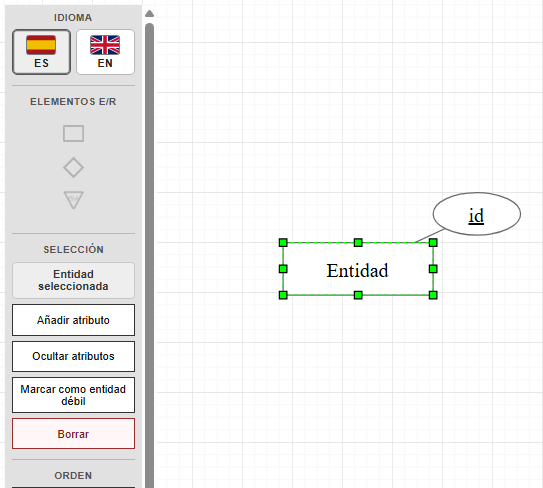
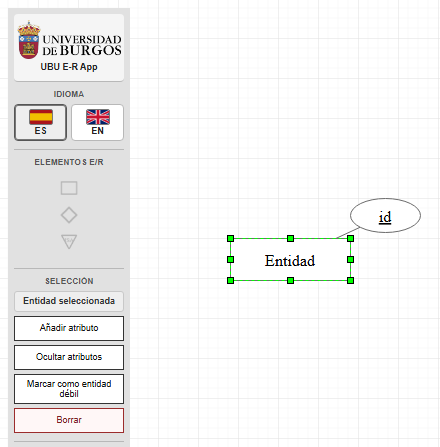
docs: update chapters with final usability refinements

Changed region(s): [[0.0, 0.0, 0.2955, 1.0], [0.5023, 0.4072, 0.975, 0.6398], [0.8273, 0.3781, 0.9455, 0.4072]]

diff --git a/src/buildInfo.js b/src/buildInfo.js
@@ -1,4 +1,4 @@
 // Archivo generado automáticamente por scripts/generateBuildInfo.js
 export const APP_VERSION = "1.0.0";
 export const BUILD_DATE = "19/06/2026";
-export const BUILD_COMMIT = "a93e652";
+export const BUILD_COMMIT = "a72c9fb";

diff --git a/docs/latex/tex/6_Trabajos_relacionados.tex b/docs/latex/tex/6_Trabajos_relacionados.tex
@@ -48,23 +48,23 @@ El proyecto desarrollado se sitúa en un punto intermedio. No pretende competir 
 
 La principal diferencia del proyecto no está en ofrecer más funcionalidades que el resto de alternativas, sino en su enfoque concreto. La herramienta desarrollada está pensada para trabajar con diagramas Entidad-Relación dentro de un contexto académico, manteniendo la coherencia entre el diagrama creado por el usuario y la estructura interna que permite validarlo, guardarlo, transformarlo y generar SQL.
 
-La Tabla \ref{tab:comparativa_herramientas} resume las diferencias principales entre algunas herramientas relacionadas y Draw E-R App, atendiendo especialmente a su enfoque, su relación con el modelado de bases de datos y el tipo de soporte que ofrecen.
+La Tabla \ref{tab:comparativa_herramientas} resume las diferencias principales entre algunas herramientas relacionadas y la aplicación desarrollada, atendiendo especialmente a su enfoque, su relación con el modelado de bases de datos y el tipo de soporte que ofrecen.
 
 \begin{table}[p]
     \centering
     \small
-    \caption{Comparativa general entre herramientas relacionadas y Draw E-R App.}
+    \caption{Comparativa general entre herramientas relacionadas y la aplicación desarrollada.}
     \label{tab:comparativa_herramientas}
     \renewcommand{\arraystretch}{1.15}
     \begin{tabularx}{\textwidth}{p{0.17\textwidth} p{0.18\textwidth} p{0.23\textwidth} X}
         \toprule
-        \textbf{Herramienta} & \textbf{Enfoque principal} & \textbf{Relación con bases de datos} & \textbf{Diferencia respecto a Draw E-R App} \\
+        \textbf{Herramienta} & \textbf{Enfoque principal} & \textbf{Relación con bases de datos} & \textbf{Diferencia respecto a la aplicación desarrollada} \\
         \midrule
         diagrams.net / draw.io & Diagramación general & Permite dibujar diagramas E/R dentro de un conjunto amplio de diagramas. & Es una herramienta más generalista; no se centra en validar semánticamente un modelo E/R académico ni en transformarlo de forma guiada a SQL. \\
         Excalidraw & Pizarra colaborativa y dibujo libre & Puede utilizarse para bocetar modelos, pero no está orientada específicamente a bases de datos. & Prioriza la libertad de dibujo frente a una estructura interna validable del modelo. \\
-        ERDPlus & Modelado de bases de datos & Permite crear diagramas E/R, esquemas relacionales y generar SQL. & Es una herramienta más especializada; Draw E-R App se centra en evolucionar un editor académico heredado e incorporar soporte controlado para los elementos tratados en el proyecto. \\
-        dbdiagram.io & Diseño mediante texto & Usa DBML para definir estructuras de base de datos y generar diagramas. & Parte de una sintaxis textual, mientras que Draw E-R App prioriza la edición visual directa del diagrama E/R. \\
-        \mbox{Draw E-R App} & Editor académico E/R web & Representa diagramas E/R, los valida y genera SQL a partir del modelo interno. & Su interés está en la coherencia entre editor visual, modelo interno, validación, transformación relacional y alcance académico definido. \\
+        ERDPlus & Modelado de bases de datos & Permite crear diagramas E/R, esquemas relacionales y generar SQL. & Es una herramienta más especializada; la aplicación desarrollada se centra en evolucionar un editor académico heredado e incorporar soporte controlado para los elementos tratados en el proyecto. \\
+        dbdiagram.io & Diseño mediante texto & Usa DBML para definir estructuras de base de datos y generar diagramas. & Parte de una sintaxis textual, mientras que la aplicación desarrollada prioriza la edición visual directa del diagrama E/R. \\
+        Aplicación desarrollada & Editor académico E/R web & Representa diagramas E/R, los valida y genera SQL a partir del modelo interno. & Su interés está en la coherencia entre editor visual, modelo interno, validación, transformación relacional y alcance académico definido. \\
         \bottomrule
     \end{tabularx}
 \end{table}

diff --git a/docs/latex/tex/2_Objetivos_del_proyecto.tex b/docs/latex/tex/2_Objetivos_del_proyecto.tex
@@ -23,13 +23,15 @@ A partir del objetivo general anterior, se plantean los siguientes objetivos esp
 
 \item Mantener la coherencia entre la parte visual del editor, las reglas de validación y la transformación al modelo relacional, de forma que los elementos soportados puedan traducirse de manera razonable a tablas, columnas, claves primarias y claves foráneas.
 
-\item Revisar la generación de SQL a partir del modelo construido, intentando que el resultado sea coherente con las decisiones de transformación aplicadas y reduciendo el uso de sentencias \texttt{ALTER TABLE} cuando las dependencias entre tablas puedan resolverse mediante el orden de creación.
+\item Revisar la generación de SQL a partir del modelo construido, de modo que el resultado sea coherente con las decisiones de transformación aplicadas, reduzca el uso de sentencias \texttt{ALTER TABLE} cuando las dependencias entre tablas puedan resolverse mediante el orden de creación y simplifique la representación de claves foráneas cuando sea posible.
 
-\item Mejorar la validación del diagrama y la comunicación de errores al usuario, agrupando los mensajes de forma más clara e indicando, cuando sea posible, los elementos concretos relacionados con cada problema.
+\item Mejorar la validación del diagrama y la comunicación de errores al usuario, haciendo que los mensajes sean más claros y, cuando sea posible, indicando los elementos concretos relacionados con cada problema.
 
-\item Incorporar mejoras de usabilidad en el editor que faciliten el trabajo del usuario, como una organización más clara de la interfaz, acciones contextuales más comprensibles, diálogos de confirmación más explícitos y textos de ayuda en operaciones complejas.
+\item Incorporar mejoras de usabilidad en el editor que faciliten el trabajo del usuario, como una organización más clara de la interfaz, acciones contextuales más comprensibles, diálogos de confirmación más explícitos, textos de ayuda en operaciones complejas, soporte para selección múltiple y ventanas de ayuda e información de la aplicación.
 
 \item Añadir un soporte básico de idioma para la interfaz, permitiendo alternar entre español e inglés sin modificar el contenido creado por el usuario dentro del diagrama.
+
+\item Facilitar la documentación y reutilización de los diagramas mediante opciones de exportación e importación, incluyendo el intercambio en formato JSON, la exportación visual del diagrama y acciones de ajuste de vista sobre el contenido del lienzo.
 
 \item Facilitar la creación de estructuras Entidad-Relación básicas de ejemplo, de forma que el usuario pueda generar rápidamente diagramas iniciales para probar o explorar el funcionamiento de la herramienta.
 
@@ -43,6 +45,6 @@ A partir del objetivo general anterior, se plantean los siguientes objetivos esp
 
 Estos objetivos se plantean dentro del alcance de un Trabajo Fin de Grado. Por ello, no se busca construir una herramienta profesional completa de diseño de bases de datos ni cubrir todas las variantes posibles del modelo Entidad-Relación. El propósito principal es evolucionar la aplicación heredada de forma progresiva, incorporando mejoras justificadas y manteniendo la coherencia entre la interfaz, el modelo interno, la validación, la persistencia y la generación de SQL.
 
-Dentro del alcance implementado se incluyen las ampliaciones del modelo Entidad-Relación descritas anteriormente, junto con mejoras de validación, generación SQL y usabilidad del editor. En cambio, algunas funcionalidades avanzadas se mantienen fuera del alcance de este trabajo o se plantean como posibles líneas futuras. Entre ellas se encuentran las agregaciones, las variantes completas de jerarquías ISA, la herencia múltiple real, la fusión avanzada de diagramas importados, la persistencia remota con usuarios o la configuración detallada de tipos de datos SQL.
+Dentro del alcance implementado se incluyen las ampliaciones del modelo Entidad-Relación descritas anteriormente, junto con mejoras de validación, generación SQL y usabilidad del editor. En cambio, algunas funcionalidades avanzadas se mantienen fuera del alcance de este trabajo o se plantean como posibles líneas futuras. Entre ellas se encuentran las agregaciones, las variantes completas de jerarquías ISA, la herencia múltiple real, la fusión avanzada de diagramas importados más allá de las opciones básicas de reemplazo o combinación, la persistencia remota con usuarios o la configuración detallada de tipos de datos SQL.
 
 Esta delimitación permite mantener un desarrollo más controlado y evita presentar como completas funcionalidades que requerirían un tratamiento más amplio. De esta forma, el proyecto se centra en mejorar y ampliar la herramienta existente sin perder de vista sus límites técnicos y académicos.

diff --git a/docs/latex/tex/7_Conclusiones_Lineas_de_trabajo_futuras.tex b/docs/latex/tex/7_Conclusiones_Lineas_de_trabajo_futuras.tex
@@ -12,9 +12,11 @@ A lo largo del proyecto se ha ampliado el soporte del modelo Entidad-Relación i
 
 El soporte de jerarquías ISA se planteó de forma limitada y controlada. La aplicación permite representar una generalización con una o varias especializaciones, y transforma esta estructura generando una tabla para la entidad general y una tabla para cada especialización, donde la clave heredada actúa como clave primaria y clave foránea. Sin embargo, no se incorporaron variantes más avanzadas como totalidad o parcialidad, especializaciones solapadas o exclusivas, discriminantes o herencia múltiple real. Esta decisión permitió implementar una primera base funcional sin aumentar el alcance de forma excesiva.
 
-También se mejoró la generación de SQL. En particular, se revisó el tratamiento de las claves foráneas para reducir el uso de sentencias \texttt{ALTER TABLE} cuando las dependencias entre tablas pueden resolverse mediante un orden adecuado de creación. Al mismo tiempo, se mantuvo \texttt{ALTER TABLE} como mecanismo de respaldo para los casos en los que existen ciclos reales de dependencias. Con ello, el SQL generado resulta más claro en los casos simples, pero conserva una solución para situaciones más complejas.
+También se mejoró la generación de SQL. En particular, se revisó el tratamiento de las claves foráneas para reducir el uso de sentencias \texttt{ALTER TABLE} cuando las dependencias entre tablas pueden resolverse mediante un orden adecuado de creación. Además, se simplificó la representación de las claves foráneas en el script final, evitando nombres explícitos innecesarios para estas restricciones y utilizando referencias más compactas cuando se apunta a la clave primaria completa de una tabla.
 
-Otro resultado relevante del proyecto es la mejora de la usabilidad del editor. Se reorganizó la interfaz, se añadieron mensajes de ayuda, se revisaron los diálogos de confirmación, se mejoró la presentación de errores de validación y se incorporó una acción explícita para comprobar el diagrama sin generar SQL. También se añadieron acciones prácticas como ajustar la vista al contenido del diagrama, exportar la representación visual en PNG o SVG y trabajar con importaciones o estructuras generadas tanto reemplazando el diagrama actual como combinándolas con el contenido existente. Estas mejoras no cambian la notación académica del modelo Entidad-Relación, pero hacen que la herramienta sea más cómoda y comprensible para el usuario.
+Otro resultado relevante del proyecto es la mejora de la usabilidad del editor. Se reorganizó la interfaz, se añadieron mensajes de ayuda, se revisaron los diálogos de confirmación, se mejoró la presentación de errores de validación y se incorporó una acción explícita para comprobar el diagrama sin generar SQL. También se refinó la selección múltiple, haciendo visible el rectángulo de selección y evitando que se mostrasen acciones contextuales individuales cuando el usuario trabaja con varios elementos a la vez, manteniendo operaciones aplicables al conjunto seleccionado como el movimiento o el borrado. Asimismo, se añadieron acciones prácticas como ajustar la vista al contenido del diagrama, exportar la representación visual en PNG o SVG y trabajar con importaciones o estructuras generadas tanto reemplazando el diagrama actual como combinándolas con el contenido existente.
+
+Finalmente, se incorporaron ventanas de ayuda e información de la aplicación, que contribuyen a explicar el uso básico del editor, contextualizar el proyecto y reconocer el trabajo original del que parte la herramienta.
 
 La funcionalidad de generación de estructuras de ejemplo también contribuye a facilitar el uso de la aplicación. Permite crear rápidamente modelos básicos, como relaciones binarias, relaciones ternarias, entidades débiles o jerarquías ISA sencillas. Además, estas estructuras pueden reemplazar el diagrama actual o insertarse en el contenido existente mediante una combinación controlada. Esta funcionalidad se planteó como una ayuda para probar y explorar el editor, no como un sistema avanzado de plantillas semánticas ni como un mecanismo de fusión inteligente de diagramas.
 
@@ -24,7 +26,7 @@ También se incorporaron pequeñas mejoras orientadas a reducir la fricción dur
 
 Al estar orientada a un contexto académico, la herramienta no busca sustituir la explicación teórica del modelo Entidad-Relación, sino servir como apoyo práctico para construir diagramas, validarlos y observar una posible traducción al modelo relacional y a SQL.
 
-En conjunto, el resultado final es una herramienta más completa que la aplicación inicial, con mayor soporte para elementos del modelo Entidad-Relación, una salida SQL más cuidada y una interfaz más clara. Aunque no cubre todos los casos posibles del modelo E/R, sí proporciona una base más sólida y coherente para continuar ampliando el proyecto en el futuro.
+En conjunto, el resultado obtenido es una herramienta más completa que la aplicación inicial, con mayor soporte para elementos del modelo Entidad-Relación, una salida SQL más cuidada y una interfaz más clara.
 
 \section{Líneas de trabajo futuras}
 
@@ -41,7 +43,7 @@ A pesar de las mejoras realizadas, el proyecto sigue ofreciendo varias posibilid
 
 \item \textbf{Permitir una configuración más detallada del SQL generado.} Actualmente la herramienta genera una estructura SQL suficiente para representar el esquema obtenido, pero no permite editar en detalle los tipos de datos, tamaños, restricciones adicionales o decisiones específicas de un sistema gestor concreto. Esta sería una posible ampliación si se quisiera acercar más la herramienta a un uso práctico avanzado.
 
-\item \textbf{Añadir funcionalidades avanzadas de edición.} En el futuro podrían incorporarse acciones como copiar y pegar fragmentos del diagrama, organizar automáticamente los elementos o trabajar con varias vistas del mismo modelo. Estas mejoras aumentarían la comodidad de uso, aunque también introducirían nuevos retos relacionados con la sincronización entre el modelo interno y la representación visual.
+\item \textbf{Añadir funcionalidades avanzadas de edición.} La aplicación incorpora operaciones básicas sobre selección múltiple, como mover o borrar varios elementos seleccionados. En el futuro podrían incorporarse acciones más avanzadas como copiar y pegar fragmentos del diagrama, alinear o distribuir elementos, organizar automáticamente el contenido del lienzo o trabajar con varias vistas del mismo modelo. Estas mejoras aumentarían la comodidad de uso, aunque también introducirían nuevos retos relacionados con la sincronización entre el modelo interno y la representación visual.
 
 \item \textbf{Explorar persistencia remota y usuarios.} La aplicación se centra actualmente en el uso local, con persistencia en el navegador e importación y exportación mediante archivos JSON. Una posible evolución sería añadir un backend para guardar diagramas asociados a usuarios o compartir modelos, aunque esto supondría ampliar de forma importante el alcance técnico del proyecto.
 

diff --git a/docs/latex/tex/3_Conceptos_teoricos.tex b/docs/latex/tex/3_Conceptos_teoricos.tex
@@ -40,7 +40,7 @@ Además de los elementos básicos, el modelo Entidad-Relación permite represent
 
 Una entidad débil es una entidad que no puede identificarse completamente por sí misma y depende de otra entidad para formar su identificación. Esta dependencia suele representarse mediante una relación identificadora entre la entidad débil y la entidad propietaria.
 
-En estos casos, la clave de la entidad débil se construye a partir de la clave de la entidad fuerte y de un atributo propio que actúa como discriminante. Por este motivo, las entidades débiles tienen un tratamiento especial tanto en la validación del diagrama como en la transformación al modelo relacional \cite{tema6}.
+En estos casos, la clave de la entidad débil se construye normalmente a partir de la clave de la entidad fuerte y de un atributo propio que actúa como discriminante. Por este motivo, las entidades débiles tienen un tratamiento especial tanto en la validación del diagrama como en la transformación al modelo relacional \cite{tema6}.
 
 La Figura \ref{fig:er_entidad_debil} resume este patrón: la entidad débil se identifica mediante la clave de la entidad propietaria y un discriminante propio.
 
@@ -88,11 +88,11 @@ El modelo Entidad-Relación permite describir un dominio desde un punto de vista
 
 De forma general, las entidades del diagrama suelen convertirse en tablas, sus atributos pasan a ser columnas y los atributos identificadores se utilizan para definir claves primarias. Las interrelaciones entre entidades condicionan la forma en la que se crean claves foráneas o tablas intermedias, dependiendo de la cardinalidad y de la participación de cada entidad en la relación.
 
-Las relaciones uno a muchos suelen representarse incorporando una clave foránea en la tabla del lado correspondiente. En las relaciones muchos a muchos, normalmente se crea una tabla intermedia que contiene las claves de las entidades participantes y, si existen, los atributos propios de la relación.
+Las relaciones uno a muchos suelen representarse incorporando una clave foránea en la tabla situada en el lado muchos de la relación. En las relaciones muchos a muchos, normalmente se crea una tabla intermedia que contiene las claves de las entidades participantes y, si existen, los atributos propios de la relación.
 
 Algunos elementos requieren reglas específicas. Los atributos multivaluados pueden necesitar tablas propias; las entidades débiles incorporan la clave de su entidad propietaria como parte de su identificación; y las relaciones ternarias suelen transformarse mediante una tabla que referencia a las entidades participantes.
 
-En el caso de las jerarquías ISA, existen varias estrategias posibles de transformación. En este trabajo se adopta una estrategia sencilla: la entidad general se transforma como una tabla ordinaria y cada especialización se transforma en una tabla propia que incorpora la clave de la generalización como clave primaria y clave foránea \cite{tema6}. De esta forma, la especialización queda vinculada con la entidad general mediante una relación uno a uno.
+En el caso de las jerarquías ISA, existen varias estrategias posibles de transformación. En este trabajo, para el soporte inicial implementado, se adopta una estrategia sencilla: la entidad general se transforma como una tabla ordinaria y cada especialización se transforma en una tabla propia que incorpora la clave de la generalización como clave primaria y clave foránea \cite{tema6}. De esta forma, la especialización queda vinculada con la entidad general mediante una relación uno a uno.
 
 La Figura \ref{fig:isa_transformacion_relacional} recoge la estrategia aplicada en este trabajo para transformar una jerarquía ISA en tablas: una tabla para la generalización y una tabla por cada especialización.
 
@@ -107,6 +107,8 @@ SQL es el lenguaje utilizado habitualmente para definir y manipular bases de dat
 Una vez que un diagrama Entidad-Relación se ha transformado en un modelo relacional, es posible generar sentencias SQL que representen esa estructura. En este proceso, las tablas resultantes se convierten en sentencias \texttt{CREATE TABLE}, los atributos se traducen a columnas y las relaciones entre tablas se expresan mediante claves foráneas.
 
 En el editor desarrollado, la generación de SQL se entiende como una fase posterior al diseño y a la validación del diagrama. Por tanto, el resultado generado depende de que el modelo interno conserve correctamente la información necesaria sobre entidades, atributos, claves, interrelaciones y jerarquías ISA. De esta forma, el SQL no se genera únicamente a partir de la parte visual del diagrama, sino a partir de la interpretación interna que la aplicación mantiene de él.
+
+En la herramienta, esta generación se realiza intentando mantener un resultado legible, evitando detalles innecesarios cuando la restricción puede expresarse de forma más simple, por ejemplo al referenciar la clave primaria completa de una tabla mediante una clave foránea.
 
 El SQL generado debe entenderse como una traducción razonable del modelo diseñado, adecuada para los objetivos del proyecto. No pretende sustituir el trabajo completo de diseño físico de una base de datos real, donde podrían decidirse tipos de datos concretos, índices, restricciones adicionales u optimizaciones específicas.
 

diff --git a/docs/latex/tex/4_Tecnicas_y_herramientas.tex b/docs/latex/tex/4_Tecnicas_y_herramientas.tex
@@ -18,6 +18,8 @@ Para la representación y manipulación de los diagramas se utiliza mxGraph \cit
 
 Además, el proyecto utiliza Material UI para algunos componentes de la interfaz \cite{material-ui}. Esta librería facilita la creación de elementos visuales comunes, como botones, diálogos o controles de interacción, manteniendo una apariencia más uniforme dentro de la aplicación.
 
+También se emplean dependencias de apoyo para aspectos concretos de la interfaz, como la visualización de notificaciones al usuario tras determinadas acciones. Estas dependencias no constituyen el núcleo del editor, pero contribuyen a mejorar la respuesta visual de la aplicación durante su uso.
+
 En conjunto, estas librerías permiten construir un editor web en el que la interfaz, el área gráfica y las acciones del usuario trabajan de forma coordinada. En este trabajo, lo relevante no es solo el uso de estas herramientas por separado, sino la forma en la que se integran para representar diagramas Entidad-Relación de manera coherente.
 
 \section{Herramientas de validación y pruebas}
@@ -36,7 +38,7 @@ Para el control de versiones se utiliza Git, lo que permite registrar los cambio
 
 El proyecto se gestiona mediante GitHub, que se utiliza como repositorio remoto y como apoyo para la organización del desarrollo \cite{github}. A través de sus herramientas se pueden documentar tareas, agrupar el trabajo en issues y milestones, revisar cambios y mantener una trazabilidad básica de la evolución del editor.
 
-También se utilizaron mecanismos de comprobación asociados al repositorio, como la ejecución de pruebas y revisiones automáticas cuando correspondía. Este tipo de apoyo resulta útil en un proyecto incremental, ya que permite detectar problemas antes de integrar cambios y ayuda a mantener cierta estabilidad durante la evolución de la aplicación.
+También se utilizaron mecanismos de comprobación asociados al repositorio mediante GitHub Actions. En concreto, se definieron flujos para ejecutar pruebas y revisiones de calidad del código, lo que ayuda a detectar problemas antes de integrar cambios y contribuye a mantener la estabilidad durante la evolución incremental de la aplicación.
 
 \section{Documentación y redacción de la memoria}
 
@@ -66,6 +68,7 @@ La Tabla \ref{tab:herramientas_proyecto} resume el papel principal de las herram
         Biome & Formateo y análisis estático del código. \\
         Lefthook & Ejecución de comprobaciones asociadas al flujo de trabajo con Git. \\
         Git y GitHub & Control de versiones, organización de tareas y trazabilidad. \\
+        GitHub Actions & Ejecución automática de comprobaciones, pruebas y revisiones de calidad del código. \\
         Overleaf y LaTeX & Redacción y compilación de la memoria y los anexos. \\
         \bottomrule
     \end{tabular}

diff --git a/docs/latex/tex/1_Introduccion.tex b/docs/latex/tex/1_Introduccion.tex
@@ -36,7 +36,7 @@ Por este motivo, cualquier ampliación del editor debe tener en cuenta varios as
 
 El alcance de este Trabajo Fin de Grado se centra en la evolución de un editor web de diagramas Entidad-Relación ya existente. El trabajo incluye el análisis del sistema heredado, la revisión de su funcionamiento interno, la ampliación progresiva de sus capacidades y la documentación del proceso seguido.
 
-Dentro de este alcance se consideran tanto los cambios realizados en el editor como la revisión de las reglas de validación, la transformación hacia el modelo relacional y la generación de SQL cuando corresponde. Se incorporan nuevos elementos del modelo Entidad-Relación, como entidades débiles, atributos compuestos y multivaluados, relaciones ternarias y un soporte inicial para jerarquías ISA. También se incluyen mejoras de usabilidad, soporte básico de idioma, generación de estructuras de ejemplo y ajustes en la generación de SQL.
+Dentro de este alcance se consideran tanto los cambios realizados en el editor como la revisión de las reglas de validación, la transformación hacia el modelo relacional y la generación de SQL cuando corresponde. Se incorporan nuevos elementos del modelo Entidad-Relación, como entidades débiles, atributos compuestos y multivaluados, relaciones ternarias y un soporte inicial para jerarquías ISA. También se incluyen mejoras de usabilidad, soporte básico de idioma, generación de estructuras de ejemplo, acciones de ayuda al usuario, refinamientos en la selección múltiple y ajustes en la generación de SQL.
 
 No se pretende construir una herramienta profesional completa de diseño de bases de datos ni cubrir todas las variantes posibles del modelo Entidad-Relación. Algunas funcionalidades avanzadas, como las agregaciones, las variantes completas de jerarquías ISA, la herencia múltiple real o la persistencia remota con usuarios, quedan fuera del alcance implementado y se consideran posibles líneas de trabajo futuro.
 